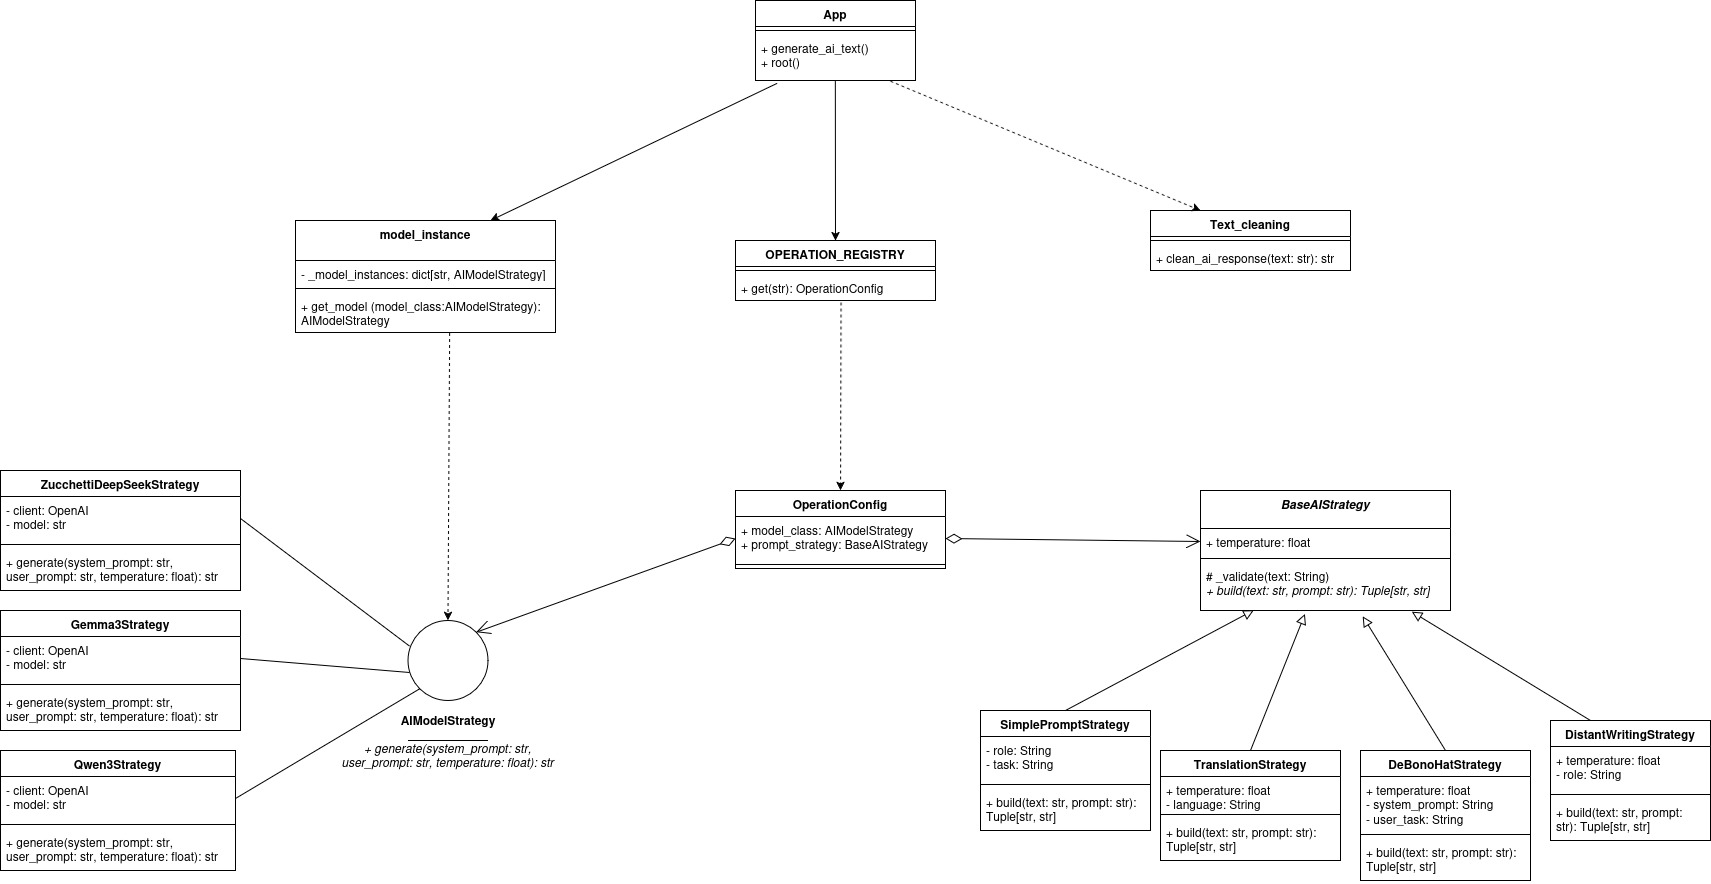
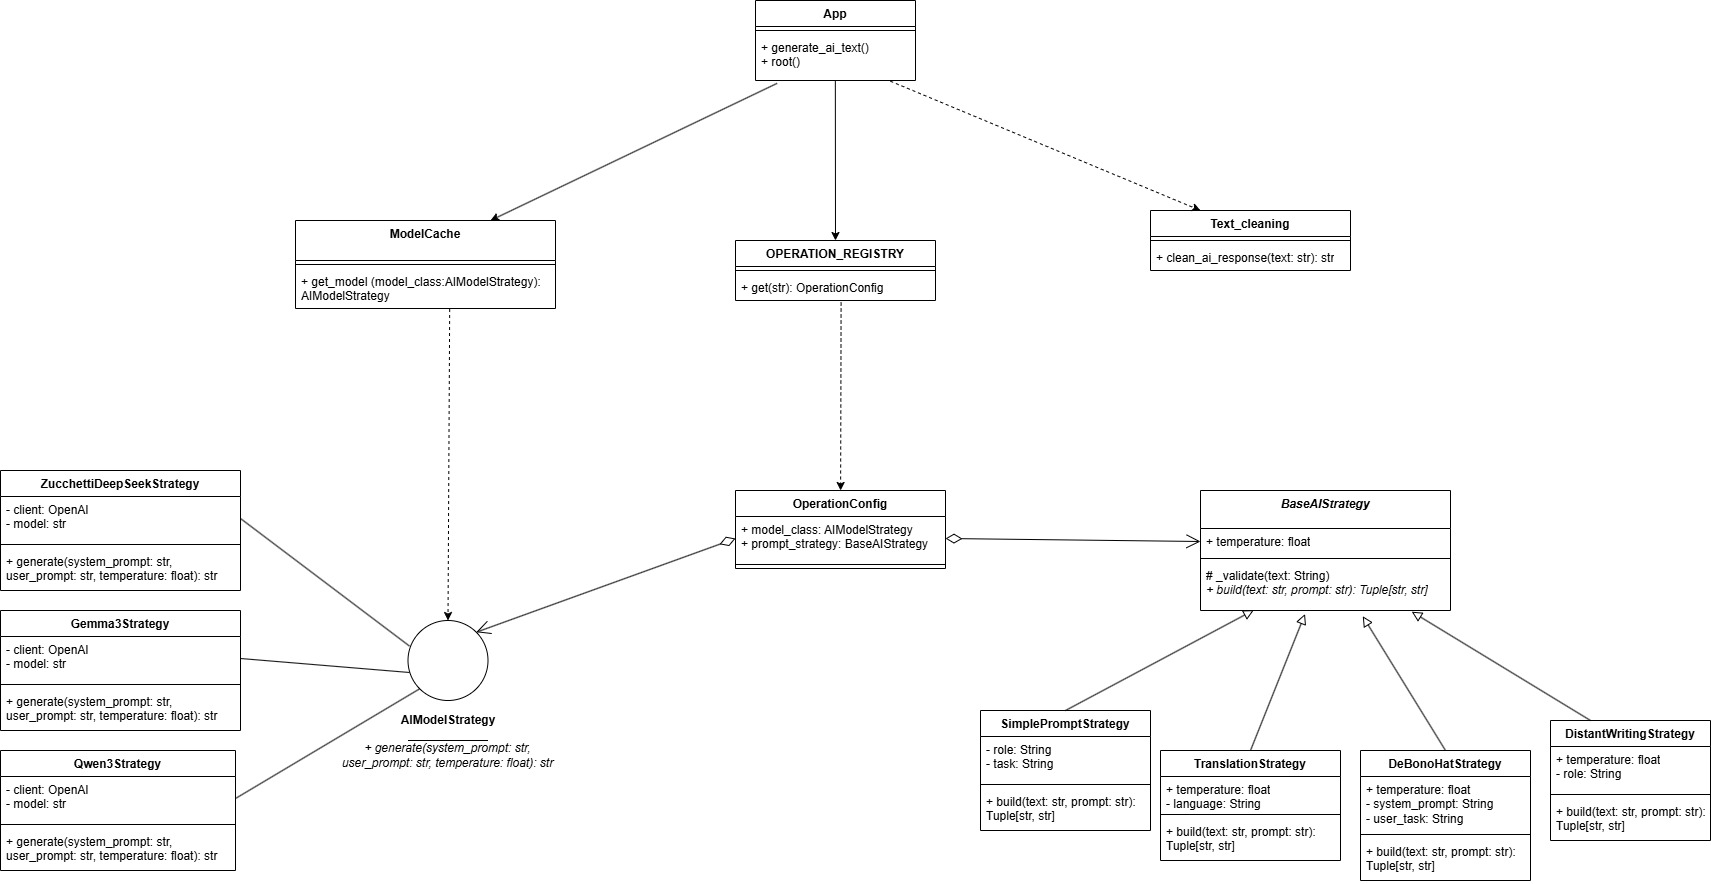
Mini fix

diff --git a/src/3_PB/Specifica_Tecnica_v0.2.6.tex b/src/3_PB/Specifica_Tecnica_v0.2.6.tex
@@ -656,8 +656,8 @@ L’architettura iniziale del backend presentava un'eccessiva complessità logic
 L'adozione di questo pattern porta tre importanti vantaggi:
 \begin{enumerate}
     \item \textbf{Eliminazione degli statement condizionali}: Previene la proliferazione di classi client complesse e di lunghi blocchi \texttt{if/else} o \texttt{switch} per la selezione del comportamento.
-    \item \textbf{Alternativa all'ereditarietà}: Fornisce un approccio basato sulla composizione, più flessibile rispetto all'estensione diretta delle classi.
     \item \textbf{Adesione ai principi SOLID (Open-Closed)}: Permette di aggiungere nuovi algoritmi semplicemente creando una nuova \textit{ConcreteStrategy}, senza modificare il \textit{Context} preesistente.
+    \item \textbf{Miglioramento della testabilità}: Ogni \textit{ConcreteStrategy} può essere testata in isolamento.
 \end{enumerate}
 
 \subsubsection{Applicazione 1: \gls{prompt} strategies (ai\_strategies.py)}
